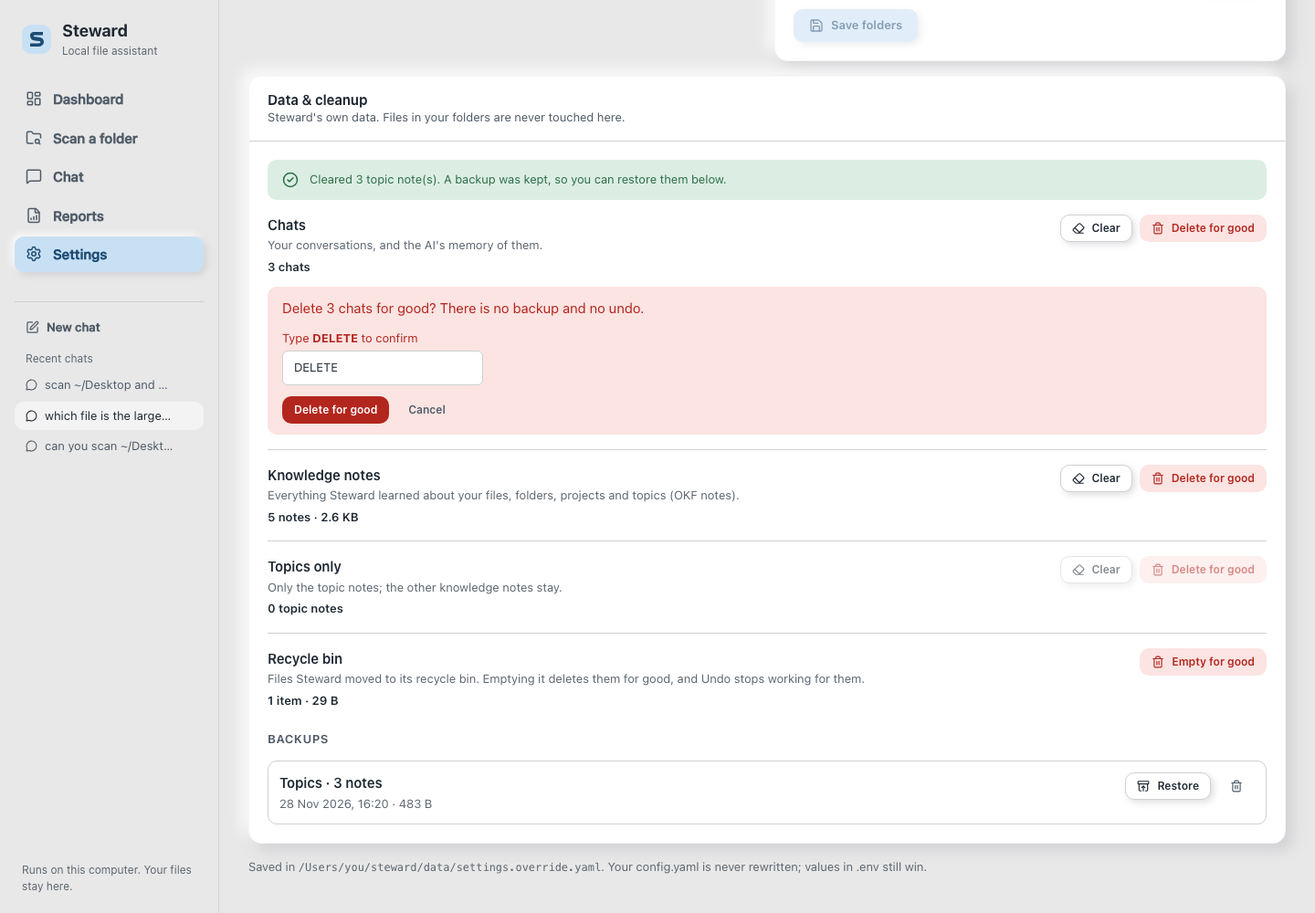
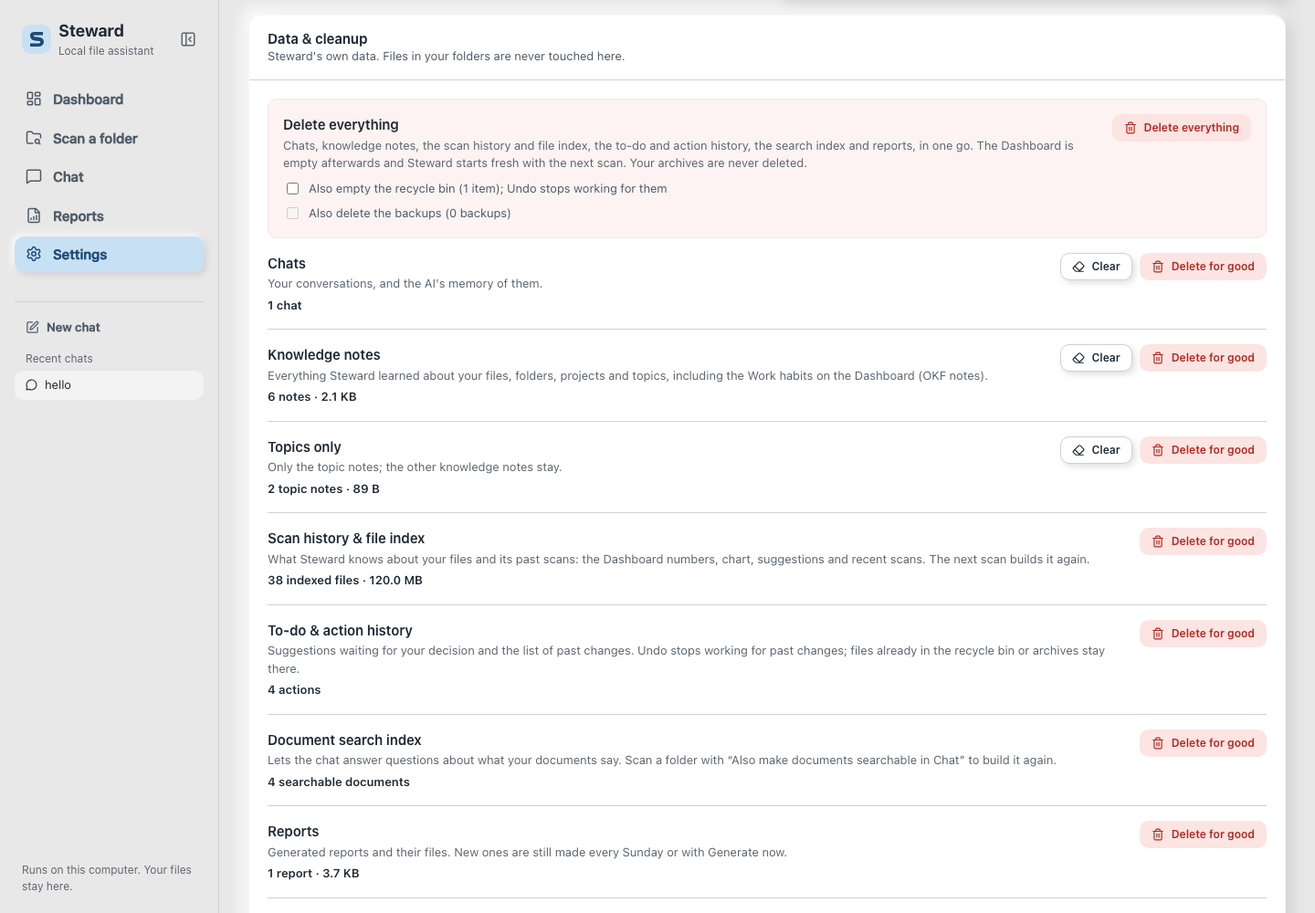
Release 0.13.0

diff --git a/steward/config.py b/steward/config.py
@@ -20,7 +20,7 @@ class AppConfig:
 
     DEFAULT_DATA = {
         "app": {
-            "name": "Steward", "version": "0.12.0", "environment": "development",
+            "name": "Steward", "version": "0.13.0", "environment": "development",
             "log_level": "INFO", "log_file": "steward.log",
             "log_max_bytes": 5242880, "log_backup_count": 3,
         },

diff --git a/steward/__init__.py b/steward/__init__.py
@@ -32,7 +32,7 @@ from steward.watcher import DownloadsWatcher
 from steward.worker import StewardWorker
 from steward.workflows import StewardWorkflows
 
-__version__ = "0.12.0"
+__version__ = "0.13.0"
 
 __all__ = [
     "AppConfig", "ConfigError", "DatabaseManager", "DocumentContent", "DocumentReader",

diff --git a/docs/user-guide/02-dashboard.md b/docs/user-guide/02-dashboard.md
@@ -1,7 +1,8 @@
 # 2. The Dashboard
 
 The Dashboard answers two questions: **"What has Steward looked at?"** and **"What needs my
-attention?"** It refreshes by itself every minute.
+attention?"** It refreshes by itself every minute. From top to bottom: the six numbers, the scan
+chart and file types, suggestions, recent scans, and your to-do list last.
 
 ![The Dashboard](images/dashboard.png)
 
@@ -16,7 +17,40 @@ attention?"** It refreshes by itself every minute.
 | **Space you can free** | Space used by duplicates, temporary and old files (each file counted once) |
 | **Errors (24 h)** | Files that couldn't be read or actions that failed; normally 0 |
 
-## The To-do list: your decisions
+## Daily scan activity and file types
+
+| Card | What it shows |
+|:--|:--|
+| **Daily scan activity** | A chart of files checked and changed per day (7, 14 or 30 days, switch at the top) |
+| **File types** | Which kinds of files use the most space |
+
+## Suggestions
+
+Grouped by priority:
+
+| Badge | Examples |
+|:--|:--|
+| **High** | Duplicate copies, temporary or half-downloaded files |
+| **Medium** | Files untouched for more than 90 days (archive them), very large files (review them) |
+| **Low** | Folders with many kinds of files mixed together (organize by type) |
+
+Suggestions are *advice*. Only items in the To-do list can be approved. To turn a suggestion into
+to-do items, use [Scan a folder](03-scan-a-folder.md) on that folder.
+
+Next to the suggestions:
+
+| Card | What it shows |
+|:--|:--|
+| **Recently completed** | Actions Steward really did, each with an **Undo** button |
+| **Work habits** | Patterns Steward has noticed (busiest day, main type of work) |
+| **Recent scans** | The last scans with files, changes, duplicates and errors |
+
+## The To-do list: your decisions (at the bottom)
+
+The To-do list is the last card, because it can get long. It shows the **first 10** suggestions;
+**Show all** lists the rest. **Hide** folds the whole card into one line (and **Show** opens it
+again); Steward remembers your choice. The **"… to review"** badge at the top of every page jumps
+straight to this list and opens it.
 
 Each row is one suggested action:
 
@@ -41,27 +75,20 @@ The line under the To-do title tells you which mode you're in:
 button stays greyed out until you switch dry-run off in [Settings](06-settings.md). That's on
 purpose: practice mode always wins.
 
-## Suggestions
+## Getting around: a smaller sidebar
 
-Grouped by priority:
+The **«** button next to "Steward" (top left) folds the sidebar into a narrow strip of icons, so
+the pages get more room. Point at an icon to see its name; the pulsing dot on the Chat icon still
+shows a running answer, and the pencil icon starts a new chat. Click **»** to bring the full sidebar
+back. Steward remembers your choice in this browser. (On a phone the menu is always the top strip.)
 
-| Badge | Examples |
-|:--|:--|
-| **High** | Duplicate copies, temporary or half-downloaded files |
-| **Medium** | Files untouched for more than 90 days (archive them), very large files (review them) |
-| **Low** | Folders with many kinds of files mixed together (organize by type) |
+![The sidebar folded into icons](images/sidebar-collapsed.png)
 
-Suggestions are *advice*. Only items in the To-do list can be approved. To turn a suggestion into
-to-do items, use [Scan a folder](03-scan-a-folder.md) on that folder.
+## Starting over
 
-## Below the fold
+To empty the Dashboard completely, use [Settings → Data & cleanup → Delete everything](06-settings.md#delete-everything).
+Steward then starts fresh: the next scan (every hour, or from *Scan a folder*) fills it again.
 
-| Section | What it shows |
-|:--|:--|
-| **Daily scan activity** | A chart of files checked and changed per day (7, 14 or 30 days, switch at the top) |
-| **File types** | Which kinds of files use the most space |
-| **Recent scans** | The last scans with files, changes, duplicates and errors |
-| **Recently completed** | Actions Steward really did, each with an **Undo** button |
-| **Work habits** | Patterns Steward has noticed (busiest day, main type of work) |
+![The Dashboard after Delete everything](images/dashboard-empty.png)
 
 ➡ Next: [Scan a folder](03-scan-a-folder.md)

diff --git a/review-system/14-whats-new-0.13.md b/review-system/14-whats-new-0.13.md
@@ -1,0 +1,68 @@
+# 14. What's new in Steward 0.13.0
+
+*Written 28 Nov 2026, after hands-on testing of 0.12.0. Plain-language summary first, details below.*
+
+## In one paragraph
+
+In 0.12.0 you could delete chats, knowledge notes and the recycle bin, but the Dashboard stayed full:
+the scan history, the file index, the to-do list (340 items in the test) and the reports had no
+delete button. 0.13.0 adds them, plus one **Delete everything** button for a complete reset. After it,
+the Dashboard, Reports and Chat are really empty, and Steward **starts fresh** with the next scan.
+Single reports can be deleted, the sidebar folds into icons, and the Dashboard puts the long to-do
+list last, where it can be folded.
+
+![The Dashboard after Delete everything](../docs/user-guide/images/dashboard-empty.png)
+
+## What was missing, and what changed
+
+| Reported | Cause | Now |
+|:--|:--|:--|
+| "I deleted everything, but the Dashboard is still full" | The Dashboard reads scans, the file index, actions and the search index, which Settings could not delete | Four new items in *Data & cleanup*, and **Delete everything** |
+| "There should be an option to delete reports" | Missing | All reports in Settings, or one at a time with 🗑 on the Reports page |
+| "A collapse option on the left" | Missing | The **«** button folds the sidebar to icons; remembered per browser |
+| "Daily scan activity before the to-dos, to-dos last and collapsible" | The to-do list was the second card | New order; the to-do card shows 10 items, "Show all", and folds; the badge opens it |
+
+## Delete everything, safely
+
+- You type `DELETE` before anything happens; the server checks that too.
+- If a chat answer or a folder scan is running, Steward deletes **nothing** and says why.
+- The recycle bin and backups are only deleted when you tick them.
+- **Archives are never deleted**: they hold your real archived files. The live test made an archive
+  from the chat first, and it was still there afterwards.
+- "Start fresh" (your choice): Steward keeps scanning your watched folders every hour, so the
+  Dashboard fills again with what is in your folders now.
+
+## The test
+
+On a fresh Steward with the real local model: fill it like a long-running install → clear and
+restore topics → delete one report → **Delete everything** → everything empty, the "to review" badge
+gone without a reload, the archive kept → a new scan fills the Dashboard again → sidebar folded and
+to-do folded, in light and dark mode. **Every step passed.** The test caught one bug before release:
+after deleting the open report, the Reports page showed nothing instead of the next report.
+
+## Updated scorecard
+
+| Area | 0.12.0 | 0.13.0 | Why |
+|:--|:-:|:-:|:--|
+| Safety (files can't be lost) | 🟢 9 | 🟢 9 | Delete everything checks running work first, needs `DELETE`, never touches archives |
+| AI agents & chat | 🟢 8.5 | 🟢 8.5 | Unchanged |
+| User interface | 🟢 9 | 🟢 9 | Collapsible sidebar, calmer Dashboard, report delete |
+| Background automation | 🟡 6 | 🟡 6 | Unchanged (start fresh relies on the hourly scan) |
+| Tests | 🟢 9 | 🟢 9 | 156 → 166 Python + 40 → 43 frontend tests, plus the reset scenario |
+| Data control | 🟡 6 | 🟢 9 | Everything Steward keeps can now be deleted, one by one or at once |
+
+**Overall: about 8.5/10, now with full control over Steward's own data.**
+
+## Still open (next steps)
+
+1. **Smart reorganise by content**: read files, propose new folders, approve, move (planned for 0.14).
+2. Ghost entries for deleted files (#4), identical files in search (#5), AI-written summaries (#6, #9).
+3. Downloads watcher proposals (#7); one writer for the databases (#12).
+
+## Where to read more
+
+- **Deleting data:** [User Guide, Settings](../docs/user-guide/06-settings.md#data--cleanup)
+- **The new Dashboard and sidebar:** [User Guide, Dashboard](../docs/user-guide/02-dashboard.md)
+- **Routes and modules:** [API reference](../docs/developer-guide/api-reference.md),
+  [Architecture](../docs/developer-guide/architecture.md)
+- **Full list of changes:** [CHANGELOG](../CHANGELOG.md)

diff --git a/docs/developer-guide/api-reference.md b/docs/developer-guide/api-reference.md
@@ -210,8 +210,9 @@ Steward's own data only; files in the user's folders are never touched. Anything
 
 | Route | Body | Response |
 |:--|:--|:--|
-| `GET /steward/data` | | `{"chats": {"count": 2, "messages": 9}, "knowledge": {"count": 6, "size_bytes": 752}, "topics": {"count": 3, "size_bytes": 157}, "recycle": {"count": 1, "size_bytes": 29}, "backups": [{"id": "topics-20261128-100024.zip", "kind": "topics", "label": "Topics", "items": 3, "size_bytes": 483, "created_at": "…"}]}` |
-| `POST /steward/data/clear` | `{"target": "chats" \| "knowledge" \| "topics" \| "recycle", "hard": false, "confirm": "DELETE"}` | `{"removed": 2, "backup": "chats-20261128-100024.json" \| null, "message": "Cleared 2 chat(s). A backup was kept, …"}`. `recycle` is always permanent. 409 when clearing chats while an answer runs |
+| `GET /steward/data` | | `{"chats": {"count": 2, "messages": 9}, "knowledge": {"count": 6, "size_bytes": 752}, "topics": {"count": 3, "size_bytes": 157}, "recycle": {"count": 1, "size_bytes": 29}, "index": {"count": 49, "size_bytes": 125829243, "scans": 1}, "actions": {"count": 16, "todo": 14}, "search": {"count": 4}, "reports": {"count": 2, "size_bytes": 7636}, "backups": [{"id": "topics-20261128-100024.zip", "kind": "topics", "label": "Topics", "items": 3, "size_bytes": 483, "created_at": "…"}]}` |
+| `POST /steward/data/clear` | `{"target": "chats" \| "knowledge" \| "topics" \| "recycle" \| "index" \| "actions" \| "search" \| "reports", "hard": false, "confirm": "DELETE"}` | `{"removed": 2, "backup": "chats-20261128-100024.json" \| null, "message": "Cleared 2 chat(s). A backup was kept, …"}`. `recycle`, `index`, `actions`, `search` and `reports` are always permanent (need `DELETE`). 409 when clearing chats while an answer runs, or the scan history while a folder scan runs |
+| `POST /steward/data/everything` | `{"confirm": "DELETE", "empty_recycle": false, "delete_backups": false}` | `{"removed": {"chats": 2, "knowledge": 9, "index": 49, "actions": 16, "search": 4, "reports": 2}, "message": "Deleted all of Steward's data. Steward starts fresh with the next scan. Kept: …"}`. Checks first: 409 (nothing deleted) while a chat answer or folder scan runs. Archives are never deleted |
 | `POST /steward/data/backups/{id}/restore` | | `{"restored": 3, "message": "Restored 3 knowledge note(s)."}`; existing chats are skipped |
 | `POST /steward/data/backups/{id}/delete` | `{"confirm": "DELETE"}` | `{"message": "Deleted backup … for good."}` |
 
@@ -254,6 +255,7 @@ A provider/model change rebuilds the agents.
 | `POST /steward/reports/generate` `{"period": "weekly"}` | `{"message": "New weekly report ready with 5 suggestions.", "report": {…}}`; 400 for other periods than weekly/daily/monthly |
 | `GET /steward/reports/{id}` | `{"report": {"id": 1, "format": "markdown", "name": "….md", "content": "# Steward Activity Report …"}}` |
 | `GET /steward/reports/{id}/download` | File (attachment). 404 unknown/missing, 400 if the stored path is outside `reports_dir` |
+| `DELETE /steward/reports/library/{key}` | `{"message": "Deleted the report and its files."}`: both copies (MD + HTML) and their records; files are only deleted inside `reports_dir`. 404 for unknown keys |
 
 ## Older routes (kept for the CLI and the legacy Streamlit UI)
 

diff --git a/docs/user-guide/06-settings.md b/docs/user-guide/06-settings.md
@@ -54,25 +54,42 @@ the `scheduler:` section in `config.yaml`.
 
 ## Data & cleanup
 
-At the bottom of Settings you can clear **Steward's own data**. Files in your folders are never
-touched here.
+At the bottom of Settings you can delete **Steward's own data**. Files in your folders are never
+touched here, and neither are your archives (the zips of files you archived).
 
 ![Data & cleanup](images/settings-data.png)
 
 | Item | What it is | Buttons |
 |:--|:--|:--|
 | **Chats** | Your conversations, and the AI's memory of them | Clear · Delete for good |
-| **Knowledge notes** | Everything Steward learned about your files, folders, projects and topics | Clear · Delete for good |
+| **Knowledge notes** | Everything Steward learned about your files, projects and topics, including the *Work habits* on the Dashboard | Clear · Delete for good |
 | **Topics only** | Just the topic notes; the other knowledge notes stay | Clear · Delete for good |
+| **Scan history & file index** | The Dashboard numbers, chart, file types, suggestions and recent scans. The next scan builds it again | Delete for good |
+| **To-do & action history** | Suggestions waiting for you and the list of past changes. Undo stops working for past changes; files already in the recycle bin or archives stay there | Delete for good |
+| **Document search index** | Lets the chat answer questions about what your documents say. Build it again by scanning a folder with *Also make documents searchable in Chat* | Delete for good |
+| **Reports** | All generated reports and their files (one report: 🗑 on the [Reports](05-reports.md) page) | Delete for good |
 | **Recycle bin** | Files Steward moved to its recycle bin | Empty for good |
 
 - **Clear** asks once, then keeps a **backup**. It appears under **Backups**, where **Restore** puts
   everything back (chats that exist already are left alone).
 - **Delete for good** and **Empty for good** keep no backup and can't be undone. The button only
   works after you type **`DELETE`** in the box.
-- Emptying the recycle bin means **Undo** no longer works for those files.
-- While a chat is still answering, Steward waits: finish or **Stop** it, then clear the chats.
+- While a chat is still answering (or a folder scan is running), Steward waits: let it finish or
+  press **Stop**, then try again.
 - To delete just one chat, use the 🗑 icon in **Recent chats** ([Chat](04-chat.md#several-chats-and-deleting-them)).
+
+### Delete everything
+
+The red **Delete everything** panel at the top does a complete reset in one go: chats, knowledge
+notes, the scan history and file index, the to-do and action history, the search index and reports.
+Tick **Also empty the recycle bin** or **Also delete the backups** if you want those gone too (both
+are off by default). Type `DELETE` and press **Delete everything**.
+
+![Delete everything, ready to confirm](images/settings-delete-everything.png)
+
+Afterwards the Dashboard, Reports and Chat are empty and the "to review" badge disappears at once.
+**Steward then starts fresh:** the next scan (every hour, or from *Scan a folder*) fills the
+Dashboard again with what is in your folders now. Your archives are never deleted.
 
 ## "Locked by .env"
 

diff --git a/docs/developer-guide/testing.md b/docs/developer-guide/testing.md
@@ -4,8 +4,8 @@
 
 | Suite | Command | Count | Needs Ollama? |
 |:--|:--|--:|:-:|
-| Python (pytest) | `uv run pytest` | 156 | No |
-| Frontend (Vitest) | `cd frontend && npm test` | 40 | No |
+| Python (pytest) | `uv run pytest` | 166 | No |
+| Frontend (Vitest) | `cd frontend && npm test` | 43 | No |
 | Frontend build | `cd frontend && npm run build` | n/a | No |
 | Code rules | `python ~/.claude/skills/feature-dev/scripts/check_rules.py <files you changed>` | n/a | No |
 
@@ -44,6 +44,8 @@
 | `tests/test_chat_memory.py` | Paths in text, paths the tools found first (`FoundPaths`), last-answer paths first, REJECTED notes, real places (never the recycle path), "delete the file" carries the path, team history to helpers |
 | `tests/test_data_cleanup.py` | Summary, clear with backup + restore (twice), DELETE required, 409 while answering, Agno sessions, topics only, recycle bin, backup names, ZIP cannot escape |
 | `tests/test_new_user.py` | Find by name / pattern and largest file before any scan, list a folder, "recover it", two chats at once, one chat in order, per-thread tool state, delete one chat |
+
+| `tests/test_data_records.py` (0.13) | Record counts, DELETE always required, Dashboard empty after clearing + refilled by a scan, 409 during a folder scan, search index cleared in another process (worker) is rebuilt, one report / all reports (never outside `reports_dir`), Delete everything with and without recycle bin and backups (mutation-checked) |
 
 Streaming fakes: `Streamed` in `tests/test_chat_control.py` turns the `SimpleNamespace` runs of
 `FakeTeam` into real `TeamRunOutput`s, because chat jobs always stream.
@@ -87,6 +89,14 @@ progress "Archiving docs (13/33)") → "delete ~/Desktop/old-report.txt" (approv
 shows its steps. Each step was checked on disk. **3/3 runs passed all 5 steps**, 2–23 s per answer.
 Wait for the *Working…* bubble to appear before checking that an answer finished: right after
 sending, the page has not yet started the job.
+
+### The 0.13.0 reset scenario (end to end)
+
+Fresh stack, gemma4: fill like a long-running install (scan with to-do and search index, 2 reports, 2
+chats, notes, a real archive made from the chat, one recycled file) → Clear topics + Restore → delete
+one report → Delete everything (with the recycle bin) → Dashboard, Reports and Chat empty, badge gone
+without reload, **archive kept** → a new scan fills the Dashboard again (start fresh) → sidebar
+collapsed and To-do folded, light and dark. All steps passed.
 
 ### The 0.12.0 new-user scenario (end to end)
 

diff --git a/CHANGELOG.md b/CHANGELOG.md
@@ -6,6 +6,40 @@ All notable changes to Steward are documented here. The format follows
 
 ## [Unreleased]
 
+## [0.13.0] - 2026-11-28
+
+A complete reset when you want one: Settings can now delete everything Steward keeps, so the
+Dashboard, Reports and Chat are really empty, and Steward starts fresh with the next scan. Single
+reports can be deleted, the sidebar folds into icons, and the Dashboard puts the long To-do list last.
+
+### Added
+- **Delete everything** (Settings → Data & cleanup): chats, knowledge notes, the scan history and file
+  index, the to-do and action history, the search index and reports in one go, after typing `DELETE`.
+  Optional: also empty the recycle bin, also delete backups. Archives are never deleted. Nothing is
+  deleted while a chat answer or a folder scan is running. Route: `POST /steward/data/everything`.
+- New Data & cleanup items, always "for good" (`DataRecords`): **Scan history & file index**,
+  **To-do & action history**, **Document search index**, **Reports**. `GET /steward/data` reports
+  their counts; `POST /steward/data/clear` accepts `index`, `actions`, `search`, `reports`.
+- **Delete one report** on the Reports page (`DELETE /steward/reports/library/{key}`); the next report opens.
+- **Collapsible sidebar**: folds to a 68 px strip of icons (names on hover, Chat dot, New chat icon),
+  remembered per browser; phones unchanged.
+- **Foldable To-do** on the Dashboard: first 10 items with "Show all", Hide/Show remembered; the
+  "to review" badge opens it (`/dashboard#todo`).
+- Tests: 10 new Python tests (156 → 166) and 3 Vitest tests (40 → 43).
+
+### Changed
+- **Dashboard order**: status cards, then Daily scan activity and File types, Suggestions with
+  Recently completed and Work habits, Recent scans, and the To-do list last.
+- The "to review" badge refreshes at once after data is deleted (no 15-second wait).
+- The worker re-reads the search index list before indexing, so an index cleared in Settings is
+  rebuilt instead of skipped (`RAGIndex.clear`, manifest reload).
+- Knowledge notes in Settings mention that they include the Dashboard's Work habits.
+
+### Fixed
+- "Delete for good" on chats, notes and the recycle bin left the Dashboard full: scans, file index,
+  to-do (e.g. 340 items) and reports could not be removed.
+- After deleting the open report, the Reports page showed nothing instead of the next report.
+
 ## [0.12.0] - 2026-11-28
 
 A chat you stay in control of: a "no" is honoured and reported truthfully, long answers can be

diff --git a/review-system/README.md b/review-system/README.md
@@ -4,7 +4,11 @@
 > **Compared against:** `Steward-System-Design.pdf` (the PRD, 21 pages) and `project-skill.md`
 > **Method:** every source file was read line by line, the 37 automated tests were run, and the whole system was tested live on a fake sample folder with real local AI models (Ollama).
 
-> 🆕 **Update, 28 Nov 2026 (Steward 0.12.0):** a "no" is honoured and reported truthfully, the chat
+> 🆕 **Update, 28 Nov 2026 (Steward 0.13.0):** Settings can delete everything Steward keeps (a
+> complete reset; archives are never deleted), single reports can be deleted, the sidebar folds into
+> icons and the Dashboard puts the to-do list last. See **[14-whats-new-0.13.md](14-whats-new-0.13.md)**.
+>
+> **Update, 28 Nov 2026 (Steward 0.12.0):** a "no" is honoured and reported truthfully, the chat
 > remembers what "it" is, finds files by name, can be stopped, undoes and recovers, runs two chats
 > at once, and Settings can clear Steward's own data. New colours. See
 > **[13-whats-new-0.12.md](13-whats-new-0.12.md)**.
@@ -39,6 +43,7 @@ This folder explains **what Steward is, how it works inside, how to use it, and 
 | 11 | [11-whats-new-0.10.md](11-whats-new-0.10.md) | **What changed in 0.10.0**: fixed issues, new web app, updated scorecard |
 | 12 | [12-whats-new-0.11.md](12-whats-new-0.11.md) | **What changed in 0.11.0**: live chat, folder actions, opt-in write access, scenario test |
 | 13 | [13-whats-new-0.12.md](13-whats-new-0.12.md) | **What changed in 0.12.0**: honest rejections, Stop, memory, find files, two chats, data cleanup, new colours |
+| 14 | [14-whats-new-0.13.md](14-whats-new-0.13.md) | **What changed in 0.13.0**: delete everything, report delete, collapsible sidebar, new Dashboard order |
 | — | [demo/](demo/) | Rerun my test yourself (sample folder generator + demo config + script) |
 
 ---

diff --git a/docs/developer-guide/frontend.md b/docs/developer-guide/frontend.md
@@ -19,9 +19,12 @@ frontend/
     ├── styles/tokens.css                        # design tokens (light + dark)
     ├── styles/base.css · components.css         # layout + shared components
     ├── styles/{dashboard,scan,chat,chat-panel,reports,settings}.css   # page-specific
-    ├── components/layout/                       # AppShell (health polling, warnings), Sidebar, RecentChats (working dots, delete), TopBar, PageHeader
+    ├── components/layout/                       # AppShell (health polling, sidebar collapsed flag), Sidebar (collapses to icons), RecentChats (working dots, delete; compact), TopBar (badge → /dashboard#todo), PageHeader
     ├── components/chat/                         # ChatHome, Composer (Send ⇄ Stop), MessageList, StepTrail, FolderCard, ChatPanel, ApprovalCard
     ├── components/settings/DataSettings.jsx     # Data & cleanup: clear / delete for good (type DELETE) / backups (helpers in dataCleanup.js)
+    ├── components/settings/EverythingPanel.jsx  # Delete everything (+ ConfirmBox.jsx, shared confirm with typed DELETE)
+    ├── utils/layoutPrefs.js · todoView.js       # remembered sidebar/To-do choices (safe localStorage) · first 10 + summary
+    ├── utils/dataEvents.js                      # steward:data-changed → AppShell reloads health (badge) at once
     ├── components/ui/                           # Card, Button, Badge, StatCard, Alert, EmptyState, Spinner
     ├── components/{dashboard,scan,chat,reports,settings}/  # page parts
     └── pages/{Dashboard,Scan,Chat,Reports,Settings}Page.jsx

diff --git a/docs/user-guide/08-troubleshooting.md b/docs/user-guide/08-troubleshooting.md
@@ -24,6 +24,11 @@
 | Chat: "it" or "the file" means the wrong thing | Small models sometimes mix up earlier files | Say the file name or path once; Steward remembers it from then on |
 | Settings: **Delete for good** stays greyed out | It needs the word typed exactly | Type `DELETE` in capitals |
 | Settings: clearing chats says **"still answering"** | A chat answer is running | Wait for it or press **Stop**, then try again |
+| The Dashboard fills up again after **Delete everything** | Steward starts fresh: the hourly scan looks at your watched folders again | That's expected. To keep it smaller, remove folders under *Watched folders* |
+| **Delete everything** (or *Scan history*) says **"A folder scan is running"** | A scan from *Scan a folder* is still busy | Wait until it finishes, then try again |
+| After deleting the search index, the chat can't answer what a document says | The index is empty | Scan the folder again with *Also make documents searchable in Chat* |
+| The sidebar shows only icons | It was folded with the **«** button | Click **»** at the top left to bring it back |
+| The To-do list shows only one line | It was folded | Click **Show** on the To-do card (or the "to review" badge at the top) |
 | Chat: a red step **"… could not finish"** | A helper's AI call failed (often Ollama is busy or out of memory) | Ask again; close other apps if it keeps happening |
 | Chat: the answer seems to stop early | Steward stops a helper after a few tries, so it can't loop forever | Ask a more specific question, for example with the exact path |
 

diff --git a/README.md b/README.md
@@ -11,7 +11,7 @@ Steward is a local-first, multi-agent AI assistant that runs continuously on you
 - **Rejections are honoured** — a "no" (button or typed) means the change never happens; Steward words that answer itself
 - **Read-only by default in Docker** — Desktop and Documents can only be changed after you set `STEWARD_DESKTOP_ACCESS=rw` / `STEWARD_DOCUMENTS_ACCESS=rw`
 
-## The chat (0.12.0)
+## The chat and your data (0.12 / 0.13)
 
 Type *"can you search for a file named invoice"*, *"which file is the largest?"*, then *"delete
 it"* or *"archive it"*: Steward remembers what "it" is, shows each step live, and asks for approval
@@ -20,6 +20,12 @@ recover it"* puts the last change back, **■ Stop** ends a long answer, and two
 once. Settings → *Data & cleanup* clears chats, knowledge notes and the recycle bin (with backups, or
 for good after typing `DELETE`). See the [User Guide](docs/user-guide/04-chat.md) and
 [what's new in 0.12](review-system/13-whats-new-0.12.md).
+
+**0.13.0:** Settings → *Data & cleanup* can delete everything Steward keeps (chats, notes, scan
+history, to-do, search index, reports), one by one or with **Delete everything**, a complete reset
+after which Steward starts fresh. Archives are never deleted. The sidebar folds into icons, and the
+Dashboard shows the scan chart first and the to-do list last. See
+[what's new in 0.13](review-system/14-whats-new-0.13.md).
 
 ---
 
